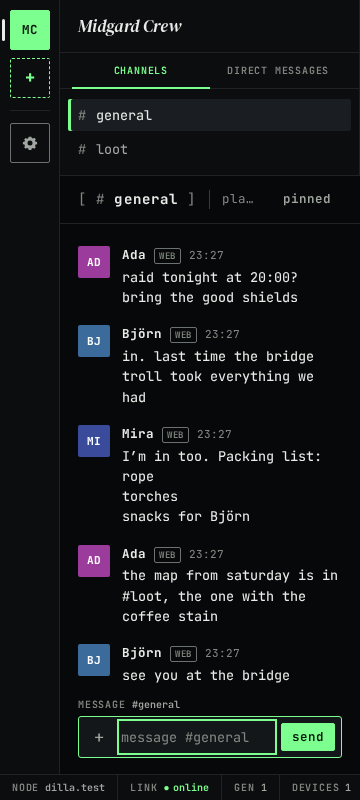
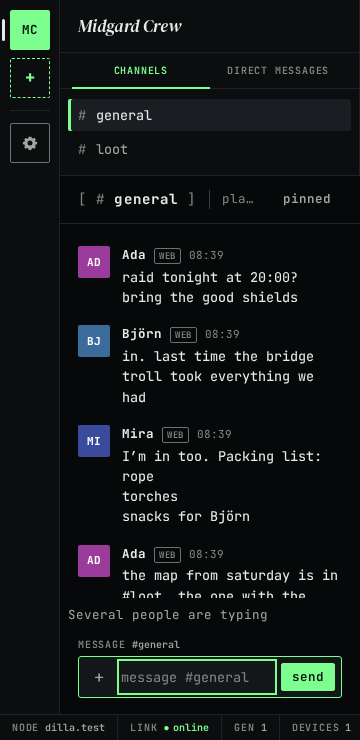
ci: gate web-2c and document current scope
Add dated guide, real-browser screenshots and the web-2c story captures. The ui job shoots the seven web-2c story families at 1280x800 and 360x740 and uploads both directories (ui-screens-web-2c, if-no-files-found: error); the checker requires each command as a whole run line and both paths, with the brief's table test. browser-web keeps timeout-minutes 41: task 10's C = 0.5 and W = 6.8 give 62, and split 30/59, still above 45, so the budget waits for a controller ruling (MIN_BROWSER_WEB_TIMEOUT records the figures). shoot-docs.mjs exports DOC_VIEWPORTS and DOC_SHOTS (L-DOC-23) and shootNamedState, drives a native testkit peer for the changed-identity state, and shoots the ten new images at both viewports. README (as of 2026-10-08) and the guide's new section 10 and limits say what works and what does not yet.

Plan: docs/superpowers/plans/2026-10-08-dilla-web-2c.md

Claude-Session: https://claude.ai/code/session_01XLFud8eoDaqf8uiZq5wjuP

diff --git a/docs/user/getting-started.md b/docs/user/getting-started.md
@@ -95,8 +95,9 @@ Each browser you add is a device of your account. When you sign up, the browser 
 encrypted end to end with MLS (RFC 9420) between the members' devices, and the instance stores and forwards
 them encrypted. This browser decrypts them and keeps a copy in that same storage, itself encrypted with a key
 that only this browser can unwrap. The next time you open the instance's address, the browser signs in with
-its device key, without a password. (Nothing here has had an independent security review yet, and this
-version still trusts the instance to check which devices join a channel; see the limits at the end.)
+its device key, without a password. (Nothing here has had an independent security review yet. Each device of
+a contact is checked against that person's signed device list, but the first key this browser sees for a person
+is only "first seen", not verified, until you compare safety numbers; see [section 10](#10-privacy-search-and-settings).)
 
 What follows from that:
 
@@ -113,7 +114,7 @@ What follows from that:
   decline. Safari removes a site's storage after seven days without interaction, and the account goes with
   it.
 - **Another tab.** Only one tab runs dilla at a time. A second tab shows "dilla is open in another tab" and
-  takes over when the first one closes.
+  takes over when the first one closes, or at once with **Use this tab**; see [Two tabs](#two-tabs).
 - **Signed out by the account.** If the account no longer accepts this browser (another browser removed it
   in Settings → Devices), the app says "This browser was signed out". See [Devices](#7-devices).
 
@@ -154,6 +155,8 @@ At phone width the channel list sits above the conversation:
 | Escape | In the message list: back to the message field. In a dialog: closes it |
 | Tab, Shift+Tab | Moves between the regions: "skip to messages", the server rail, the channel list, the channel header, the messages, the message field, the status bar |
 | Arrow keys | Move within the server rail and the channel list, which are one Tab stop each |
+| Ctrl+K (⌘+K on a Mac) | Opens search across everything this browser holds |
+| Ctrl+/ | With a conversation open: opens search in this conversation (Control on a Mac too) |
 
 The sidebar tabs are one more Tab stop. Arrow Left and Arrow Right switch between "channels" and "direct messages".
 Settings uses Arrow Up, Arrow Down, Home and End to move between sections; Escape closes it.
@@ -440,7 +443,110 @@ with the message. When a message with files is deleted, its files are deleted fr
 | Arrow Up | In an empty message field: edits your last message |
 | Enter, Shift+Enter, Escape | While editing: save, new line, cancel |
 
-## 10. Known limits (2026-10-07)
+## 10. Privacy, search and settings
+
+### Contacts and safety numbers
+
+![Settings → Privacy with three contacts, each "First seen here — not verified"](screenshots/trust-privacy-desktop.png)
+
+Before this browser shows a message, it checks that the device which sent it is on its owner's signed device list.
+The first key it sees for a person is kept as that person's key. **Settings → privacy** lists the people you share
+a conversation with:
+
+- "First seen here — not verified": "This is the first key this device saw for {name}. The server could have shown
+  a different one. Compare numbers to verify." First sight is not verification: an instance can show this browser a
+  different key, or hold back a newer device list, the first time it meets a person, and nothing here can tell.
+- "verified": you compared numbers with this person.
+- "This device is not on the contact’s list.": a device of this person is not on their list, or their list could
+  not be read yet. Its messages are not shown, and there is no **Compare** until the list is read.
+
+To verify someone:
+
+1. Open **Settings → privacy** on your device, and ask the other person to do the same on theirs.
+2. Press **Compare with {name}**. "Compare safety numbers" shows a number of 12 blocks of five digits.
+3. Read the 12 blocks to each other "in person or on a call you started yourself": a voice call that one of you
+   started independently, not a link or a message the instance delivered. **Copy number** only copies it; copying
+   approves nothing.
+4. Only when all 12 blocks match, tick "Yes, all 12 blocks match" and press **All 12 blocks match**.
+
+A number needs a conversation you share: for someone you share none with, Privacy says "Open a conversation with
+this person to compare numbers." and shows no number.
+
+![Settings → Privacy at 360 pixels wide](screenshots/trust-privacy-phone.png)
+
+### When a contact's identity changes
+
+![Privacy with a contact whose identity changed: the alert and Compare with](screenshots/trust-changed-desktop.png)
+
+When a contact's identity key changes, the conversation shows the alert "This contact’s identity changed. Compare
+the number before sending." and the message field is blocked with the same words in every conversation you share
+with that person. Their messages under the new key wait, and nothing you received before is removed. Sending in a
+conversation starts again when you compare the new number (the steps above), or, in that one conversation only, when
+that person's changed device is removed from it ("You can send in this conversation after this member leaves. Their
+changed identity is still unverified elsewhere."). The alert's button opens Settings → privacy; pick **Compare with
+{name}** there. A device that fails the checks blocks sending in the conversations that hold it in the same way.
+
+![The changed contact at 360 pixels wide](screenshots/trust-changed-phone.png)
+
+### Search
+
+![Search results for "bridge" across everything](screenshots/search-results-desktop.png)
+
+Search looks only through the messages this browser holds and has decrypted; nothing is sent to the instance.
+
+1. Press **Ctrl+K** (⌘+K on a Mac) for "everything", or **Ctrl+/** in a conversation for "this conversation".
+2. Type into "Search your messages". The scope buttons are "this conversation", "this community" and "everything".
+3. Arrow Down and Arrow Up move through the results while the cursor stays in the field; Enter or a click opens the
+   message and puts the focus on it. Escape closes search.
+
+"Searching your messages" shows while it searches, "No results in this scope" when nothing matched, and "That
+message is no longer available" when the message was deleted or its conversation is gone. Search has no button on a
+phone yet: it opens with a keyboard only.
+
+![Search at 360 pixels wide](screenshots/search-results-phone.png)
+
+### Appearance
+
+**Settings → appearance** sets the theme: "system", "mesh", "light" or "high contrast". The choice applies at once
+and this browser keeps it.
+
+### Keyboard
+
+**Settings → keyboard** lists the two shortcuts: "Ctrl/⌘+K" opens search, "Control+/" searches this conversation.
+There are no single-key shortcuts.
+
+### Diagnostics
+
+![Settings → Diagnostics](screenshots/settings-diagnostics-desktop.png)
+
+**Settings → diagnostics** shows the connection, the instance's generation, the instance and the number of
+devices. **Copy codes** copies the codes of the last 20 errors, one per line, and nothing else: no message, key or
+name, so you can paste them into a report.
+
+![Diagnostics at 360 pixels wide](screenshots/settings-diagnostics-phone.png)
+
+### Typing
+
+While you type in a conversation, the others in it see "{name} is typing", or "Several people are typing". Only the
+members of that conversation get it, and it stops a few seconds after you stop typing.
+
+### Two tabs
+
+![A second tab: dilla is open in another tab, and Use this tab](screenshots/tabs-handover-desktop.png)
+
+dilla runs in one tab per browser and instance. A second tab says "dilla is open in another tab" and offers **Use
+this tab**:
+
+1. Press **Use this tab**. It says "Moving to this tab…" while the first tab finishes its work.
+2. The first tab shows "This tab is paused", and the app opens in the new one.
+3. If the first tab does not let go, the new one says "Close the other tab, then try again." and its button tries
+   again (it is labelled **Use this tab** too).
+
+The paused tab shows nothing of your conversations.
+
+![The hand-over at 360 pixels wide](screenshots/tabs-handover-phone.png)
+
+## 11. Known limits (2026-10-08)
 
 - No native phone or desktop app. A second browser needs the recovery key and the password (and the code,
   for an account with a second factor). A new browser does not get messages from before it joined. Devices have
@@ -455,11 +561,17 @@ with the message. When a message with files is deleted, its files are deleted fr
   plays no audio or video (such files are saved). Received link previews are not shown.
 - Who may pin, unpin or mention everyone is not checked yet: anyone in a conversation can. The pins list names who
   pinned each message. Only the author can delete a message.
-- No search, typing or presence. Notifications require an open tab and browser permission.
+- No presence. Notifications require an open tab and browser permission.
+- Search opens only from the keyboard (Ctrl/⌘+K, Ctrl+/); a phone or tablet without a keyboard cannot open it yet.
+  Search finds only text this browser holds, never files.
 - Messages from before this browser joined a channel are not shown.
-- No safety numbers and no device verification. The name on a message is the device that encrypted it, as
-  the channel's encryption group authenticates it; nothing in the client checks yet that the device belongs
-  to the person named, so the client trusts the instance's check of new devices.
+- The first key seen for a person is trusted as first seen until you compare numbers, and an instance can hold back
+  a newer device list at that moment. Numbers are compared by reading them aloud only: no QR code, and no number for
+  someone you share no conversation with. Privacy shows no date for a verification.
+- After a reload, Privacy forgets that a changed contact left a conversation (the contact still shows as changed
+  until you compare), and the changed-identity alert opens Privacy rather than the comparison itself.
+- No voice or call screens, no Electron desktop app, no server-readable channels, and no settings shared between
+  your browsers (each keeps its own). A second tab never shows the first tab's conversations.
 - If the page is reloaded while the account is being created, the account is finished but the server the
   invite named is not joined; paste the invite into **Join a server**.
 - Tested with Chromium and Firefox, and with WebKit for sign-up and reload; Safari itself has not been
@@ -470,7 +582,9 @@ with the message. When a message with files is deleted, its files are deleted fr
 The screenshots are real: `e2e/scripts/shoot-docs.mjs` starts a `dilla-testhost` that serves the built
 client, creates the server "Midgard Crew", signs ada, björn and mira up in three Chromium profiles, lets them
 reply, react, edit, pin, mention and share images and files in #general, signs mira into a fourth (recovery
-key, then username and password), and photographs the flows. Every name and
+key, then username and password), and photographs the flows. For section 10 a native test peer (the `dilla-testkit`
+binary) makes the server "Bridge Watch", which mira joins, and later changes its identity key; Privacy, search,
+diagnostics and a second tab are shot at 1280×800 and at 360×740. Every name and
 message is made up, and the accounts are deleted with the test host. The account has no second factor, so
 step 3 of the sign-in has no screenshot, and the two warnings of sections 6 and 7 that need a second
 sign-in at the same moment or foreign recovery data are quoted, not shown. To re-shoot them (not part of CI):
@@ -480,7 +594,8 @@ npm run build -w @dilla/web
 GO=/path/to/go npm run docs:shots -w @dilla/e2e
 ```
 
-It needs `internal/mlswasi/testdata/dilla_core_wasi.wasm` and Playwright's Chromium, uses
+It needs `internal/mlswasi/testdata/dilla_core_wasi.wasm`, `target/release/dilla-testkit` (`cargo build -p
+dilla-testkit --release --locked`, or `DILLA_TESTKIT=/path`) and Playwright's Chromium, uses
 127.0.0.1:8471 and 8472 (`node e2e/scripts/shoot-docs.mjs --port P --control C` picks others) and writes
 `docs/user/screenshots/*.png`.
 

diff --git a/README.md b/README.md
@@ -16,13 +16,13 @@ machine their group can reach can host it.
 
 ## What works today
 
-As of 2026-10-07.
+As of 2026-10-08.
 
 | Part | State |
 |---|---|
 | The server, `dillad` | Accounts and devices, servers (communities in the API), text channels, DMs, roles, permissions and channel overwrites, kicks and bans, invites, attachments (blobs), reports, encrypted backup objects; `dillad init`, `serve`, `doctor`, `backup`, `restore` and `admin`; TLS by ACME (TLS-ALPN, DNS or IP) or behind a proxy. Container image, systemd unit and Proxmox helper: see the [operator guide](docs/deploy/README.md). |
 | Encrypted calls, at the protocol and media level | Voice, camera and screen share through the in-process LiveKit SFU and TURN relay, with every media frame encrypted end to end (SFrame keys from MLS), driven by the browser package `packages/media` and tested in Chromium and Firefox. The web client has no call screens yet. |
-| The web client ("web-2b") | Served by `dillad` from its own address. Sign up with an invite, then use the account in a second browser: the recovery key first, then username and password, then the second-factor code if the account has one. Read and send text in channels and DMs; DMs stay reachable with no server or when a server did not load. Edit and delete your own messages (a delete removes the message and its files for everyone), react with a set of 32 emoji, reply, pin messages for everyone in the conversation and mention people with `@`; attach images and files of up to 25 MB each, shown as previews or file cards and opened full size. Unread and mention badges appear in the channel list, the sidebar tabs and the server rail. Settings → Devices lists every browser and removes one with the recovery key, signs this browser out and removes it, or forgets it; it works at phone width and high zoom. A persistent warning shows when the instance holds recovery data that is not this account's, and a sign-in that another sign-in pushed out says so. Desktop notifications require opt-in and an open tab. Messages sent before a new browser joins are not shown there. One tab at a time per browser. Tested in Chromium and Firefox, and in WebKit for sign-up and reload. See [Getting started](docs/user/getting-started.md). |
+| The web client ("web-2c") | Served by `dillad` from its own address. Sign up with an invite, then use the account in a second browser: the recovery key first, then username and password, then the second-factor code if the account has one. Read and send text in channels and DMs; DMs stay reachable with no server or when a server did not load. Edit and delete your own messages (a delete removes the message and its files for everyone), react with a set of 32 emoji, reply, pin messages for everyone in the conversation and mention people with `@`; attach images and files of up to 25 MB each, shown as previews or file cards and opened full size. Unread and mention badges appear in the channel list, the sidebar tabs and the server rail. Settings → Devices lists every browser and removes one with the recovery key, signs this browser out and removes it, or forgets it; it works at phone width and high zoom. A persistent warning shows when the instance holds recovery data that is not this account's, and a sign-in that another sign-in pushed out says so. Desktop notifications require opt-in and an open tab. Messages sent before a new browser joins are not shown there. Each contact device is checked against that person's signed device list before its messages are shown; the first key this browser sees for a person is shown as "First seen here — not verified", not as verified. Settings → Privacy compares a 12×5-digit safety number with a contact, read aloud in person or on a call you started yourself; when a contact's identity changes, sending to the conversations they share with you stops until you compare again or they leave that conversation. Search (Ctrl/⌘+K) finds text in the messages this browser holds, in this conversation, this community or everywhere; nothing is searched on the instance. Settings → Keyboard lists the two shortcuts, and Settings → Diagnostics shows the connection, generation, instance and device count and copies recent error codes. A conversation shows who is typing. One tab at a time per browser: a second tab of the same instance waits, and **Use this tab** moves the app there. Tested in Chromium and Firefox, and in WebKit for sign-up and reload. See [Getting started](docs/user/getting-started.md). |
 
 ![Step 3 of the sign-up: the recovery key, shown once](docs/user/screenshots/onboarding-3-recovery-key.png)
 
@@ -32,7 +32,7 @@ As of 2026-10-07.
 
 ## What is not there yet
 
-As of 2026-10-07, in the web client:
+As of 2026-10-08, in the web client:
 
 - A native app or phone client. The recovery key adds another browser with the account password; it does not
   restore messages sent before that browser joined.
@@ -40,13 +40,19 @@ As of 2026-10-07, in the web client:
   dedicated operator command yet to reset an account's recovery data, which the recovery-data warning asks for.
 - Creating servers, channels and invites, or editing roles, permissions and profiles in the web client. A server
   is created through the HTTP API today.
-- Voice, camera and screen share in the web client.
+- Voice, camera and screen share in the web client: no call screens or call controls yet.
 - Threads, link previews, markdown and custom emoji; files over 25 MB from a browser; checks of who may pin or mention everyone (anyone in a conversation can, in this version).
-- Search, typing and presence. Desktop notifications stop when every tab is closed.
-- Safety numbers and device verification.
-- More than one open tab per browser (a second tab waits for the first).
+- Presence. Desktop notifications stop when every tab is closed.
+- Search on a touch device without a keyboard: search opens only with Ctrl/⌘+K or Ctrl+/ for now.
+- Comparing safety numbers by QR code, or with someone you share no conversation with ("Open a conversation with
+  this person to compare numbers."). Privacy shows no date for a verification. Privacy's note that a changed
+  contact left a conversation is lost after a reload (the contact still shows as changed), and the changed-identity
+  alert in a conversation opens Privacy, where you pick **Compare with …**, rather than the comparison itself.
+- Settings that follow you to your other browsers (each browser keeps its own), and server-readable channels.
+- More than one working tab per browser: a second tab waits and shows nothing of the conversation until you move
+  the app to it.
 
-Beyond the web client: no desktop or mobile app, no published security review, and no published capacity
+Beyond the web client: no desktop app (Electron) or mobile app, no published security review, and no published capacity
 figures yet.
 
 ## Run it
@@ -58,7 +64,8 @@ helper, the TLS modes, the TURN relay and LiveKit settings, and backup and resto
 
 [Getting started](docs/user/getting-started.md) is for a person with an invite: the sign-up, what the
 browser keeps, the app and its keyboard, saying more (edits, reactions, replies,
-pins, mentions, images and files), and the known limits.
+pins, mentions, images and files), comparing safety numbers, search, settings, typing and a second tab, and the
+known limits.
 
 ![The app at phone width](docs/user/screenshots/shell-phone.png)
 
